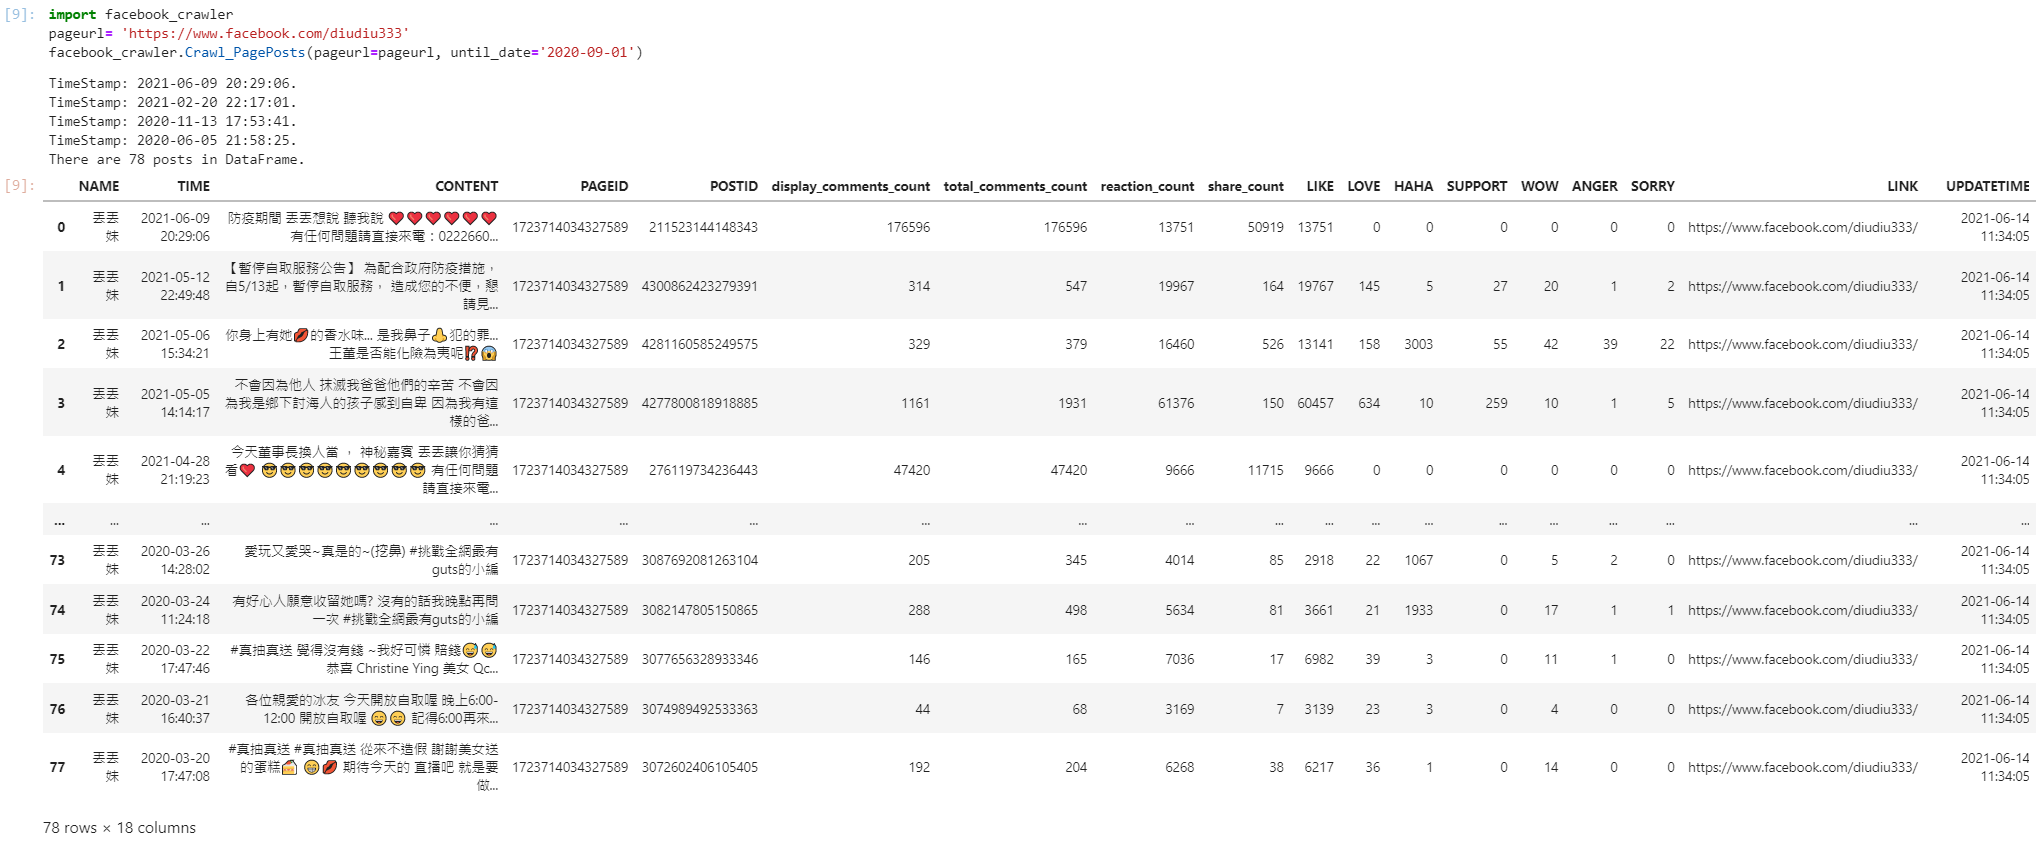
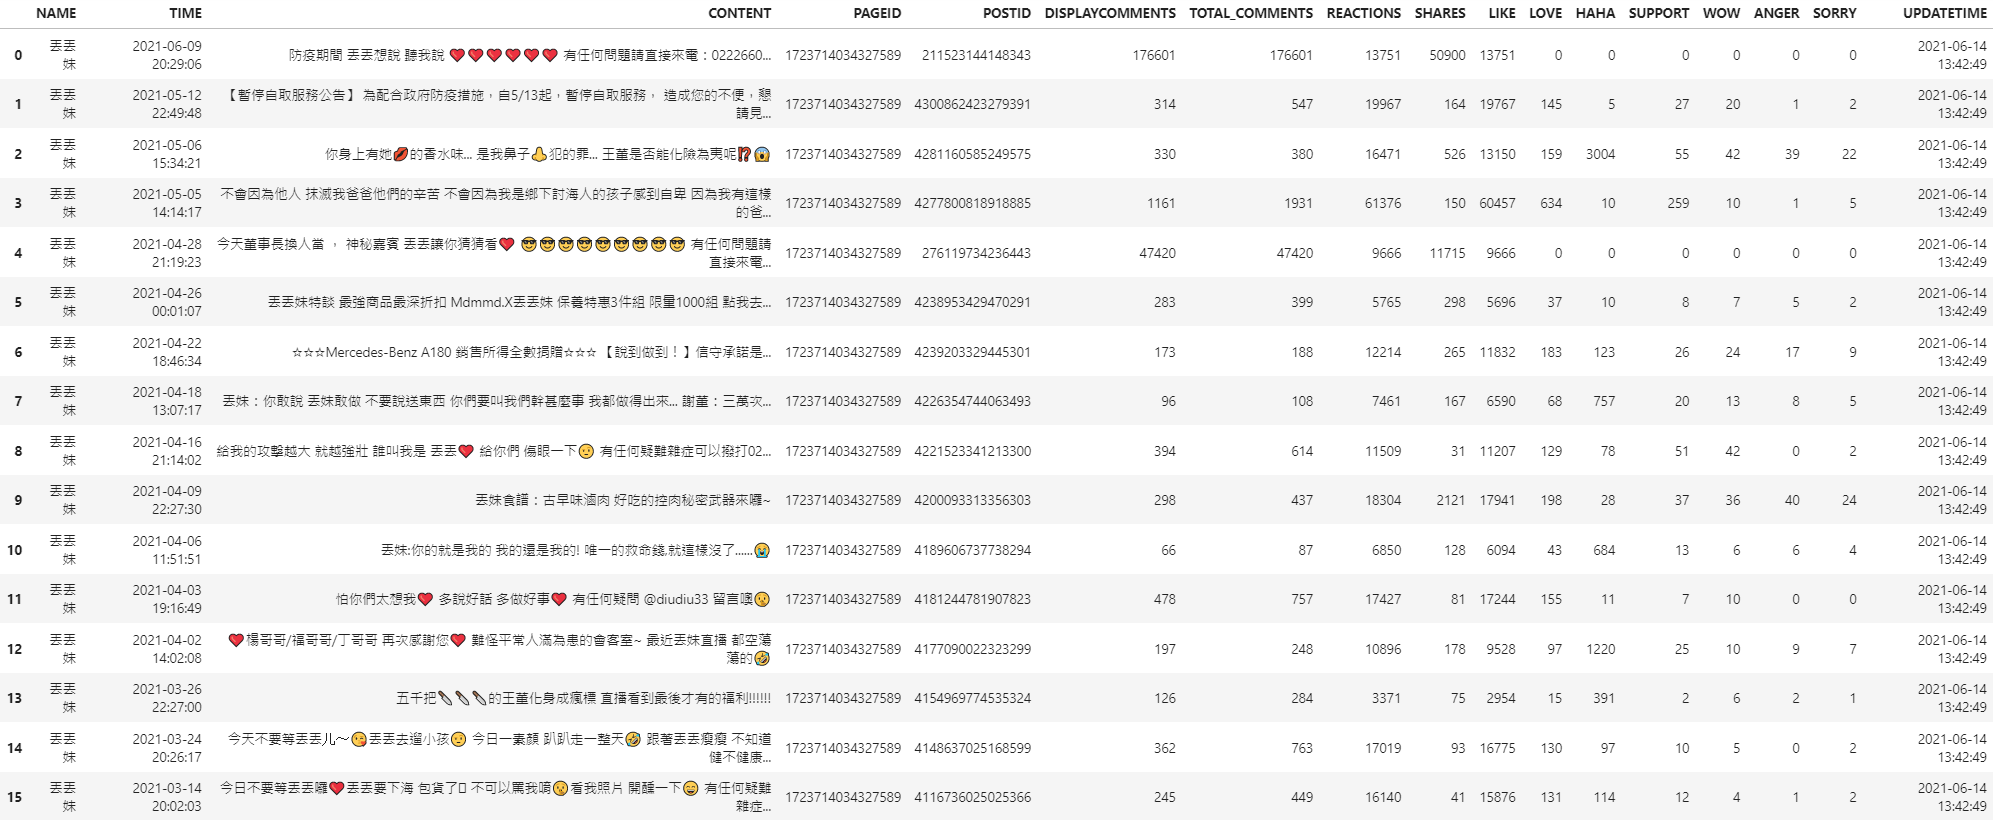
Update

diff --git a/facebook_crawler.py b/facebook_crawler.py
@@ -148,7 +148,8 @@ def Crawl_PagePosts(pageurl, until_date='2019-01-01'):
     content_df = pd.concat(content_df, ignore_index=True)
     feedback_df = pd.concat(feedback_df, ignore_index=True)
     df = pd.merge(left=content_df, right=feedback_df, how='left', on=['PAGEID', 'POSTID'])
-    df = df.loc[:,['NAME', 'TIME', 'CONTENT', 'PAGEID', 'POSTID', 'display_comments_count', 'total_comments_count', 'reaction_count', 'share_count', 'LIKE', 'LOVE', 'HAHA', 'SUPPORT', 'WOW', 'ANGER', 'SORRY', 'LINK']]
+    df = df.loc[:,['NAME', 'TIME', 'CONTENT', 'PAGEID', 'POSTID', 'display_comments_count', 'total_comments_count', 'reaction_count', 'share_count', 'LIKE', 'LOVE', 'HAHA', 'SUPPORT', 'WOW', 'ANGER', 'SORRY']]
+    df = df.rename(columns={'display_comments_count':'DISPLAYCOMMENTS', 'total_comments_count':'TOTAL_COMMENTS', 'reaction_count':'REACTIONS','share_count':'SHARES'})
     df['UPDATETIME'] = datetime.datetime.now().strftime("%Y-%m-%d %H:%M:%S")      
     print('There are {} posts in DataFrame.'.format(str(df.shape[0])))
     return df

diff --git a/setup.py b/setup.py
@@ -1,0 +1,28 @@
+import setuptools
+
+with open("README.md", "r") as fh:
+  long_description = fh.read()
+
+setuptools.setup(
+  name="facebook_crawler",
+  version="0.0.3",
+  author="TENG-LIN YU",
+  author_email="tlyu0419@gmail.com",
+  description="You can collect data from Facebook's Fanspage/group elegantly.",
+  long_description=long_description,
+  long_description_content_type="text/markdown",
+  url="https://github.com/TLYu0419/quantumtw",
+  packages=setuptools.find_packages(),
+  classifiers=[
+  "Programming Language :: Python :: 3",
+  "License :: OSI Approved :: MIT License",
+  "Operating System :: OS Independent",
+  ],
+  python_requires=">=3.6",
+  install_requires=[
+      "requests==2.24.0",
+      "bs4==0.0.1"
+      "numpy==1.20.3",
+      "pandas==1.2.4"
+    ],
+)
